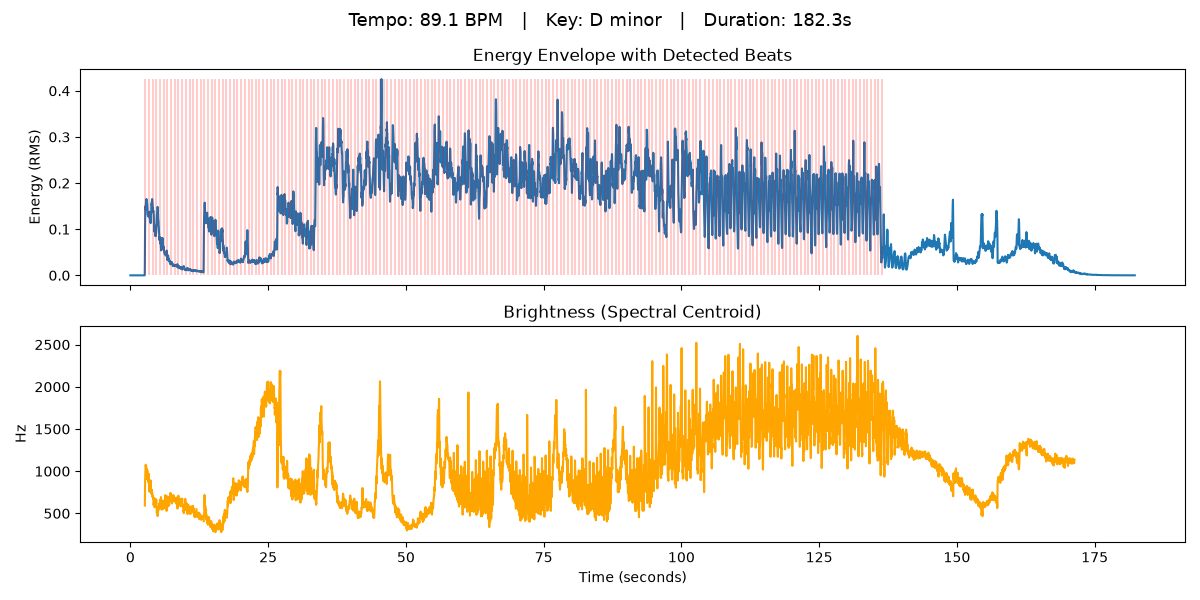
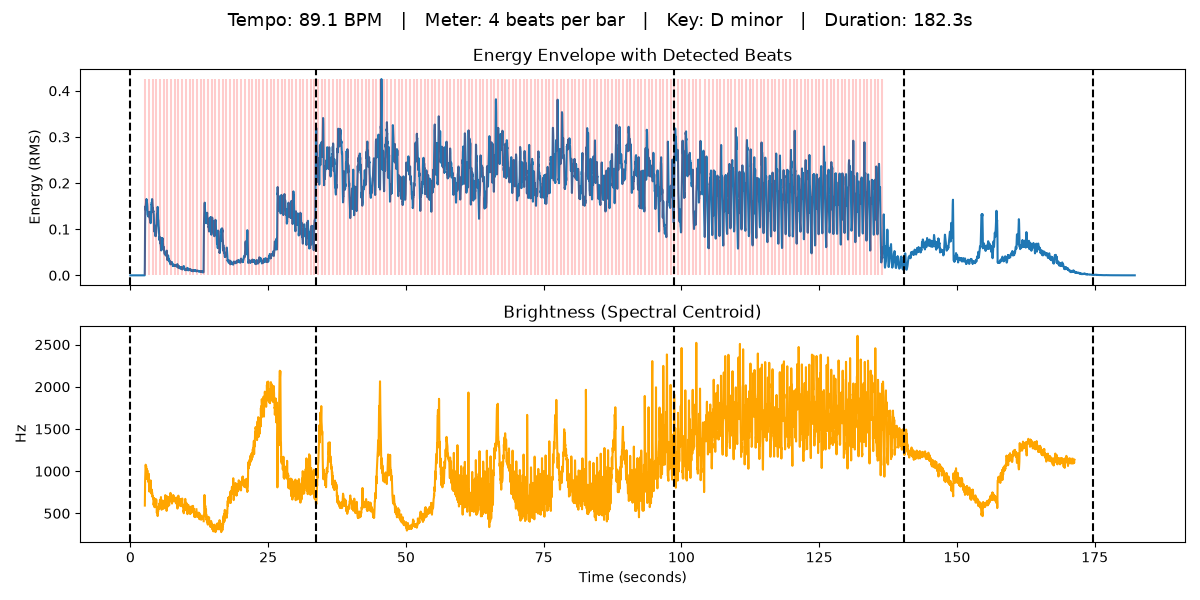
Add meter detection

Changed region(s): [[0.185, 0.0, 0.8017, 0.06]]

diff --git a/analyzer.py b/analyzer.py
@@ -25,6 +25,15 @@ print("Beats detected:", len(beat_times))
 # Key and mode
 chroma = librosa.feature.chroma_cqt(y=y, sr=sr)
 chroma_avg = chroma.mean(axis=1)
+# Segmentation
+mfcc = librosa.feature.mfcc(y=y, sr=sr, n_mfcc=13)
+n = min(chroma.shape[1], mfcc.shape[1])
+features = np.vstack([chroma[:, :n], mfcc[:, :n]])
+features = (features - features.mean(axis=1, keepdims=True)) / (features.std(axis=1, keepdims=True) + 1e-8)
+
+bounds = librosa.segment.agglomerative(features, 5)
+bound_times = librosa.frames_to_time(bounds, sr=sr)
+print("Section boundaries (s):", [round(float(t), 1) for t in bound_times])
 
 notes = ["C", "C#", "D", "D#", "E", "F", "F#", "G", "G#", "A", "A#", "B"]
 major_profile = np.array([6.35, 2.23, 3.48, 2.33, 4.38, 4.09, 2.52, 5.19, 2.39, 3.66, 2.29, 2.88])
@@ -45,10 +54,30 @@ for i in range(12):
 
 print("Estimated key:", best_key)
 print("Confidence:", round(best_score, 2))
+# Meter
+onset_env = librosa.onset.onset_strength(y=y, sr=sr)
+beat_onset = onset_env[beats]
+
+beat_chroma = librosa.util.sync(chroma, beats, aggregate=np.median)[:, 1:]
+chroma_change = np.linalg.norm(np.diff(beat_chroma, axis=1), axis=0)
+chroma_change = np.concatenate([[0], chroma_change])
+
+def standardize(v):
+    return (v - v.mean()) / (v.std() + 1e-8)
+
+accent = standardize(beat_onset) + standardize(chroma_change)
+
+meter_scores = {}
+for m in [3, 4]:
+    meter_scores[m] = max(accent[p::m].mean() for p in range(m))
+
+meter = max(meter_scores, key=meter_scores.get)
+print("Estimated meter:", meter, "beats per bar")
+print("Meter scores:", {k: round(float(v), 2) for k, v in meter_scores.items()})
 
 # Plot (always last)
 fig, (ax1, ax2) = plt.subplots(2, 1, figsize=(12, 6), sharex=True)
-fig.suptitle(f"Tempo: {round(bpm, 1)} BPM   |   Key: {best_key}   |   Duration: {round(duration, 1)}s", fontsize=13)
+fig.suptitle(f"Tempo: {round(bpm, 1)} BPM   |   Meter: {meter} beats per bar   |   Key: {best_key}   |   Duration: {round(duration, 1)}s", fontsize=13)
 
 ax1.plot(times, rms)
 ax1.vlines(beat_times, 0, rms.max(), color="red", alpha=0.2)
@@ -59,6 +88,9 @@ ax2.plot(times, centroid, color="orange")
 ax2.set_title("Brightness (Spectral Centroid)")
 ax2.set_ylabel("Hz")
 ax2.set_xlabel("Time (seconds)")
+for t in bound_times:
+    ax1.axvline(t, color="black", linestyle="--")
+    ax2.axvline(t, color="black", linestyle="--")
 
 plt.tight_layout()
 plt.savefig("analysis.png")

diff --git a/notes.md b/notes.md
@@ -36,3 +36,16 @@
 - Detect which sections are rhythmically driven vs free
 - Smaller hop length for finer tempo resolution
 - Test on 2 to 3 more cues in different styles
+## Segmentation (agglomerative, k=5, chroma + MFCC)
+- Answer key taken from the session, not memory. My memory said the
+  main section started at 29; the session says 33. Algorithm said 33.6
+- Hit: 33 vs 33.6
+- Transition 94 (low strings enter) to 104 (beat drop): algorithm put
+  one boundary at 98.7, halfway between. Clustering splits gradual
+  transitions down the middle and misses both edges
+- Near miss: 137 vs 140.4, just outside the standard 3s window
+- Split off the fade at 174.7 as its own section; did not split off
+  the silence before the opening hit
+- Limitation: had to be told the number of sections
+- Next: novelty-based detection, no fixed section count, should find
+  both 94 and 104
